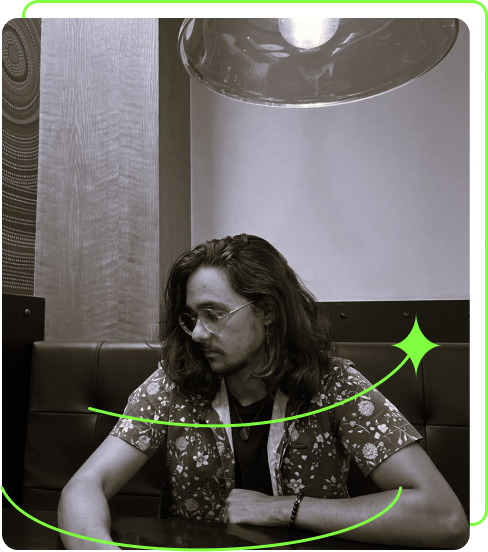
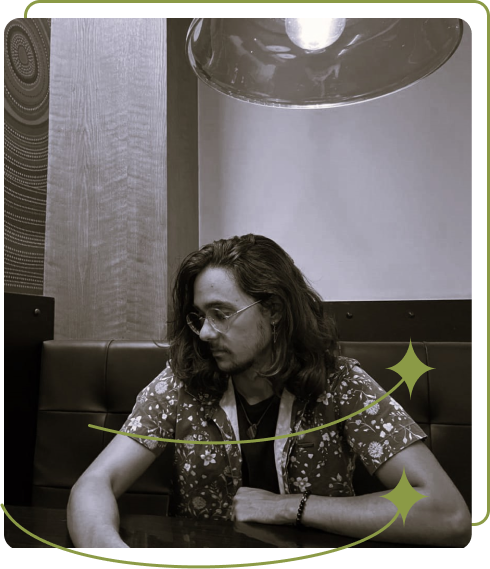
add variables and change colors

diff --git a/styles/style.css b/styles/style.css
@@ -1,5 +1,16 @@
 @import url('https://fonts.googleapis.com/css2?family=Krona+One&family=Montserrat:wght@400;600&display=swap');
 
+:root {
+    --cor-primaria: #0F0E0E;
+    --cor-secundaria: #EEEEEE;
+    --cor-terciaria: #8B9A46;
+    --cor-hover: #F0FFAE;
+    --cor-bg-hover: #181818;
+
+    --fonte-primaria: 'Krona One', sans-serif;
+    --fonte-secundaria: 'Montserrat', sans-serif;
+}
+
 * {
     margin: 0;
     padding: 0;
@@ -8,8 +19,8 @@
 body {
     /* height: 100vh; */ /* vh - viewport height */
     box-sizing: border-box; /* Não deixa elementos sairem do body */
-    background-color: #000000;
-    color: #F6F6F6;
+    background-color: var(--cor-primaria);
+    color:  var(--cor-secundaria);
 }
 
 /* HEADER */
@@ -24,15 +35,15 @@ body {
 }
 
 .cabecalho__menu__link {
-    font-family: 'Montserrat', sans-serif;
+    font-family: var(--fonte-secundaria);
     font-weight: 600;
     font-size: 24px;
-    color: #8CFF5C;
+    color: var(--cor-terciaria);
     text-decoration: none;
 }
 
 .cabecalho__menu__link:hover {
-    color: #9EFF9F;
+    color: var(--cor-hover);
 }
 /* END HEADER */
 
@@ -54,16 +65,17 @@ body {
 
 .apresentacao__conteudo__titulo {
     font-size: 36px;
-    font-family: 'Krona One', sans-serif;
+    font-family: var(--fonte-primaria);
 }
 
 .titulo-destaque {
-    color: #8CFF5C;
+    color: var(--cor-terciaria);
 }
 
 .apresentacao__conteudo__texto {
     font-size: 24px;
-    font-family: 'Montserrat', sans-serif;
+    font-family: var(--fonte-secundaria);
+    text-align: justify;
 }
 
 .apresentacao__links {
@@ -75,21 +87,20 @@ body {
 }
 
 .apresentacao__links__subtitulo {
-    font-family: 'Krona One', sans-serif;
+    font-family: var(--fonte-primaria);
     font-weight: 400;
     font-size: 24px;
 }
 
 .apresentacao__links__botao {
-    /* background-color: #8CFF5C; */
     display: flex;
     justify-content: center;
     gap: 16px;
-    border: 2px solid #8CFF5C;
-    color: #F6F6F6;
+    border: 2px solid var(--cor-terciaria);
+    color: var(--cor-secundaria);
     font-size: 24px;
     font-weight: 600;
-    font-family: 'Montserrat', sans-serif;
+    font-family: var(--fonte-secundaria);
     width: 378px;
     padding: 21.5px 0;
     border-radius: 8px;
@@ -98,8 +109,8 @@ body {
 }
 
 .apresentacao__links__botao:hover {
-    background-color: #121212;
-    border: 2px solid #9EFF9F;
+    background-color: var(--cor-bg-hover);
+    border: 2px solid var(--cor-hover);
 }
 /* END MAIN */
 
@@ -107,11 +118,11 @@ body {
 
 .rodape {
     padding: 24px;
-    color: #000000;
-    background-color: #8CFF5C;
+    color: var(--cor-primaria);
+    background-color: var(--cor-terciaria);
     text-align: center;
-    font-family: 'Montserrat', sans-serif;
+    font-family: var(--fonte-secundaria);
     font-size: 24px;
-    font-weight: 400;
+    font-weight: 500;
 }
 /* END FOOTER */
